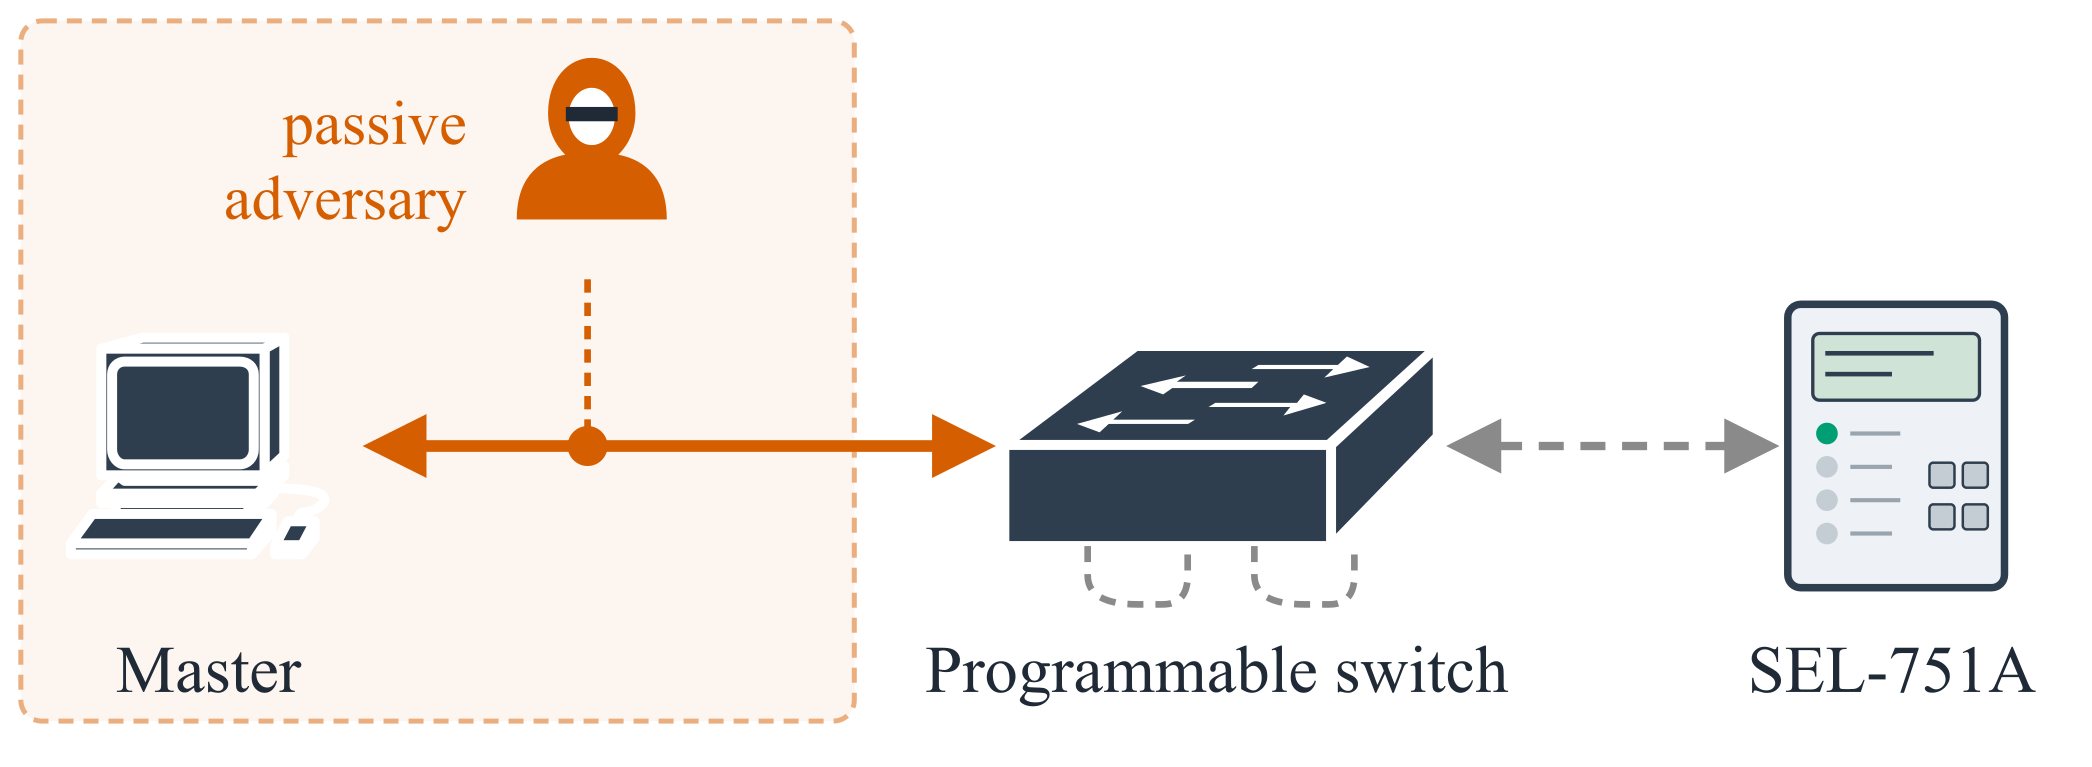
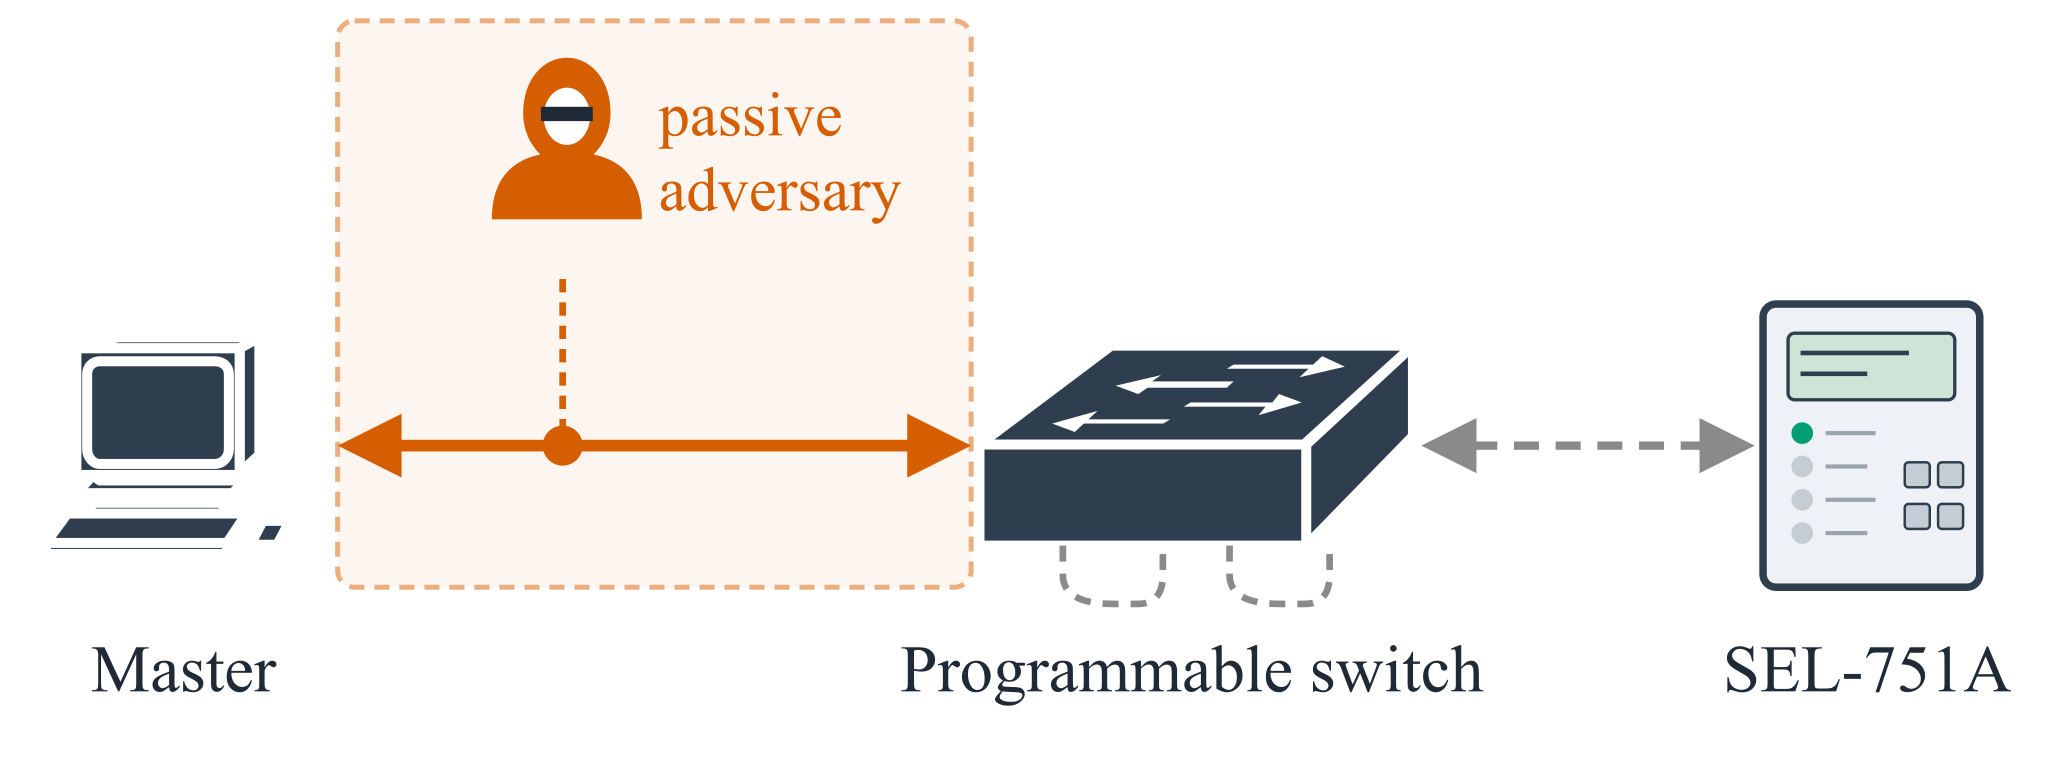
shade the link in Figure 2, not the master
The shaded region ran from x=2 to x=102. That enclosed the master workstation,
an endpoint the threat model states the adversary does not compromise, and it
stopped seventeen units short of the switch, so the right-hand end of the very
link the caption calls observed fell outside the shading. A reader could take
the box to mean the adversary owns the host.

It now covers the master-facing link and nothing else, from the master's edge
to the switch's, with the adversary and its tap inside it and both endpoints
outside. The caption, "the adversary sees only the master-facing link
(shaded)", is now literally what the figure draws. The adversary's label moves
to the right of its icon so it stays inside the region it belongs to.

build.sh PASS, ndss_preflight PASS at 13 of 13 pages, lin_check --compare NO
REGRESSION, export_schematics --check 0 problems. main.pdf republished.

diff --git a/paper/rewrite/pipeline/drawio/gen_obs_drawio.py b/paper/rewrite/pipeline/drawio/gen_obs_drawio.py
@@ -41,8 +41,12 @@ def edge(style, src=None, tgt=None, sp=None, tp=None, pts=()):
 CISCO = ("html=1;pointerEvents=1;dashed=0;strokeColor=#ffffff;strokeWidth=1.2;"
          "outlineConnect=0;shape=mxgraph.cisco.{name};fillColor={fill};")
 
-# ---- the adversary's view, shaded: first, so everything else paints over it
-vertex(2, 2, 100, 84, f"rounded=1;arcSize=3;fillColor={ZONE_FILL};strokeColor={ZONE_EDGE};"
+# ---- the adversary's view, shaded: first, so everything else paints over it.
+# The zone covers the master-facing link and nothing else. It used to run from x=2 to x=102,
+# which enclosed the master, an endpoint the threat model says the adversary does not
+# compromise, and stopped 17 units short of the switch, leaving part of the observed link
+# outside the region the caption calls observed.
+vertex(43, 2, 76, 68, f"rounded=1;arcSize=3;fillColor={ZONE_FILL};strokeColor={ZONE_EDGE};"
                       "dashed=1;dashPattern=3 2;strokeWidth=0.6;")
 
 # ---- devices
@@ -77,7 +81,7 @@ for x0, x1 in ((130, 142), (150, 162)):
          "dashPattern=2.4 1.8;rounded=1;", sp=(x0, 65), tp=(x1, 65), pts=((x0, 72), (x1, 72)))
 
 # ---- labels: the four actors, nothing else
-text(2, 10, 54, 18, "passive<br>adversary", 7.5, align="right", colour=VERM)
+text(82, 9, 34, 18, "passive<br>adversary", 7.5, align="left", colour=VERM)
 text(5, 75, 40, 10, "Master")
 text(111, 75, 70, 10, "Programmable switch")
 text(209, 75, 36, 10, "SEL-751A")
